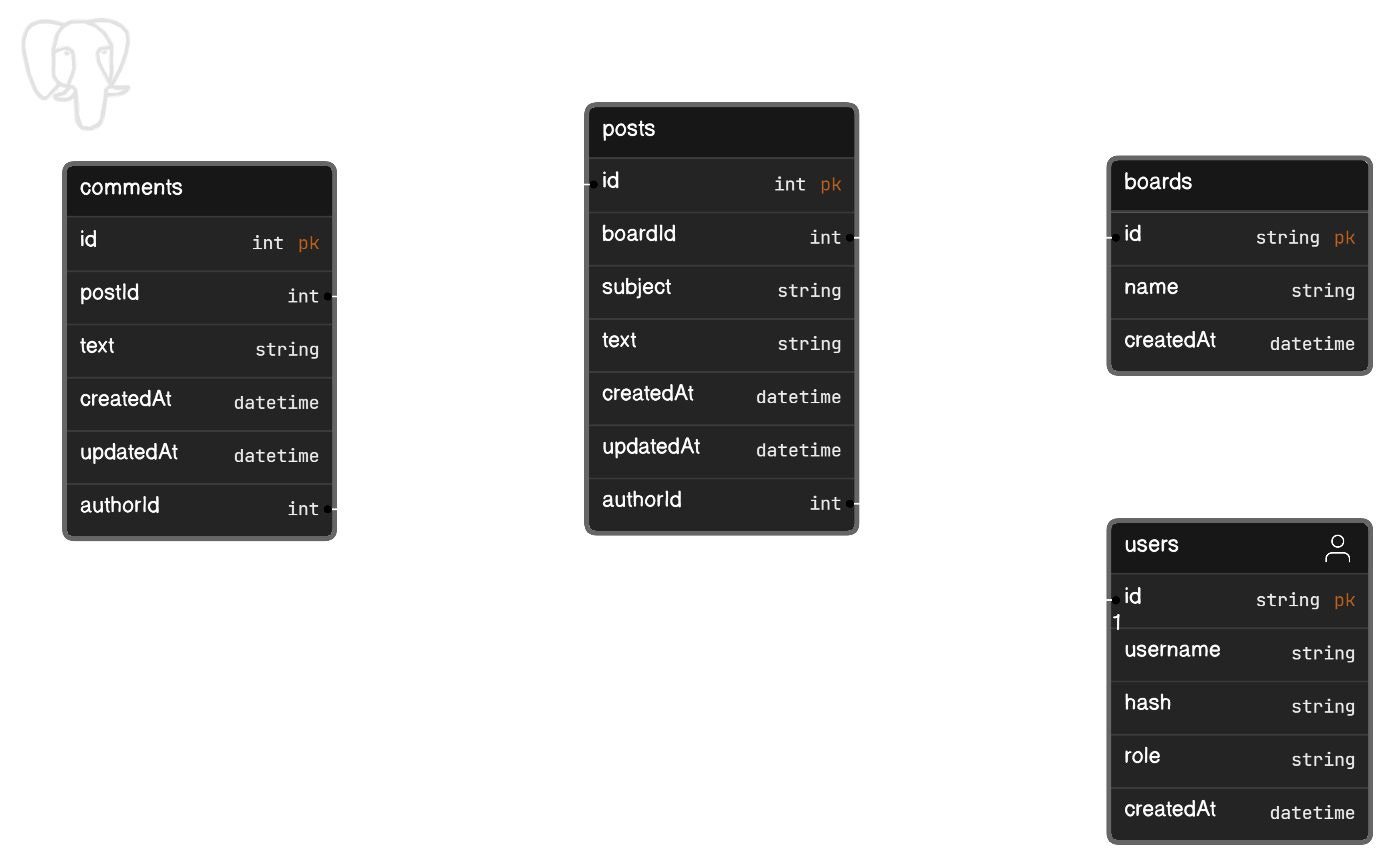
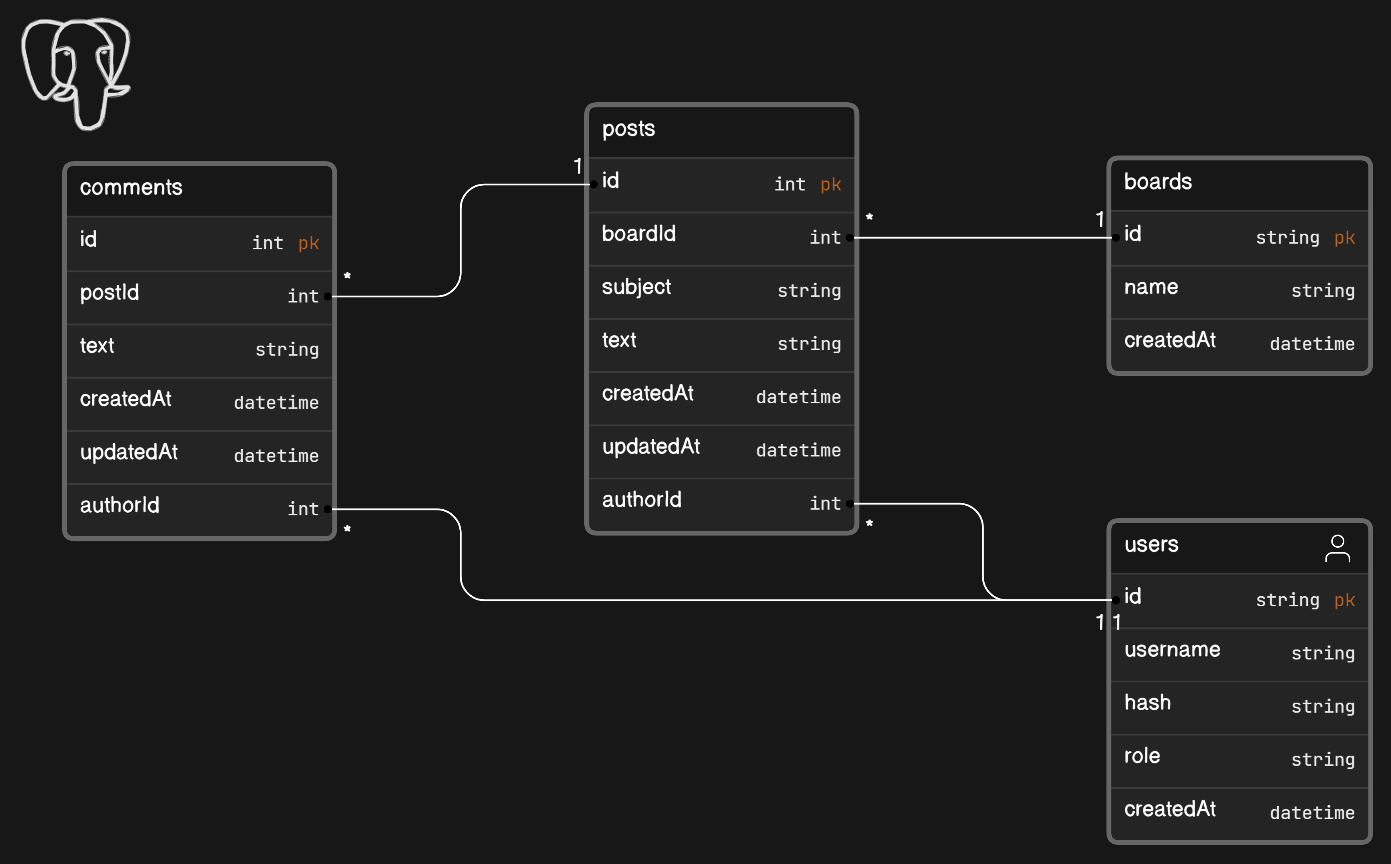
Update the image so that it shows the same way on light themes, and update README to apply rounded corners to the image.

diff --git a/README.md b/README.md
@@ -10,4 +10,4 @@ allows its administrators to delete any posts or comments.
 
 ## Disco Bassline Data Model
 
-![Disco Bassline Data Model](./doc/disco-bassline-data-model.png)
+<img src="./doc/disco-bassline-data-model.png" style="border-radius:15px">
